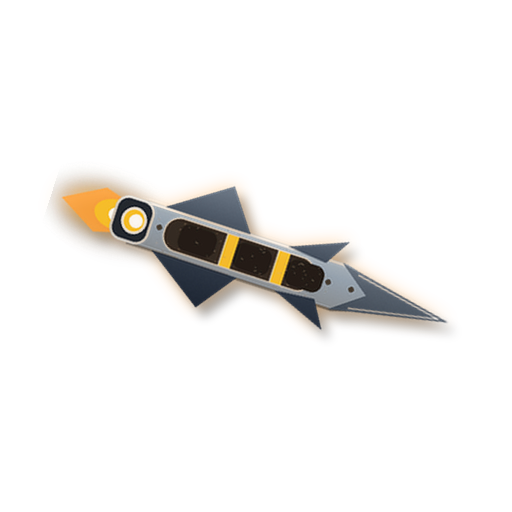
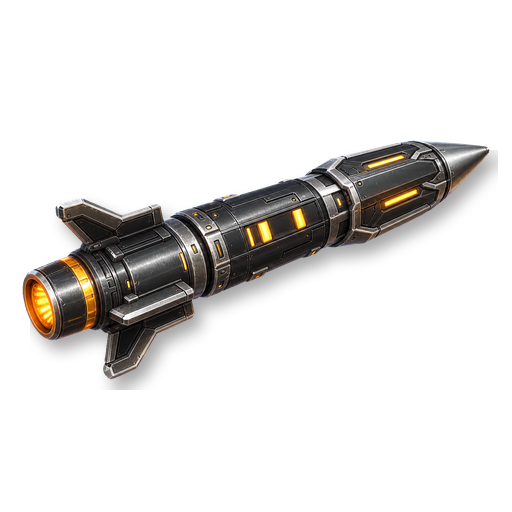
Ameliore icones missiles magasin

Changed region(s): [[0.0312, 0.25, 0.9688, 0.7812]]

diff --git a/src/core/refineryStore.js b/src/core/refineryStore.js
@@ -18,11 +18,11 @@ const REFINERY_SHIPMENT_CREDIT_RATE = {
   final:500
 };
 const REFINERY_RAW_UPGRADE_COSTS = {
-  cuivre_orbital:["cuivre_orbital", "nickel_brut"],
-  zinc_spatial:["zinc_spatial", "nickel_brut"],
+  cuivre_orbital:["cuivre_orbital", "zinc_spatial"],
+  zinc_spatial:["cuivre_orbital", "nickel_brut"],
   nickel_brut:["zinc_spatial", "titane_fissure"],
-  titane_fissure:["nickel_brut", "silice_conductrice"],
-  silice_conductrice:["titane_fissure", "nickel_brut"]
+  titane_fissure:["silice_conductrice", "nickel_brut"],
+  silice_conductrice:["silice_conductrice", "titane_fissure"]
 };
 const REFINERY_PRODUCTION_BY_KIND = {
   raw:{base:1500, max:140000},